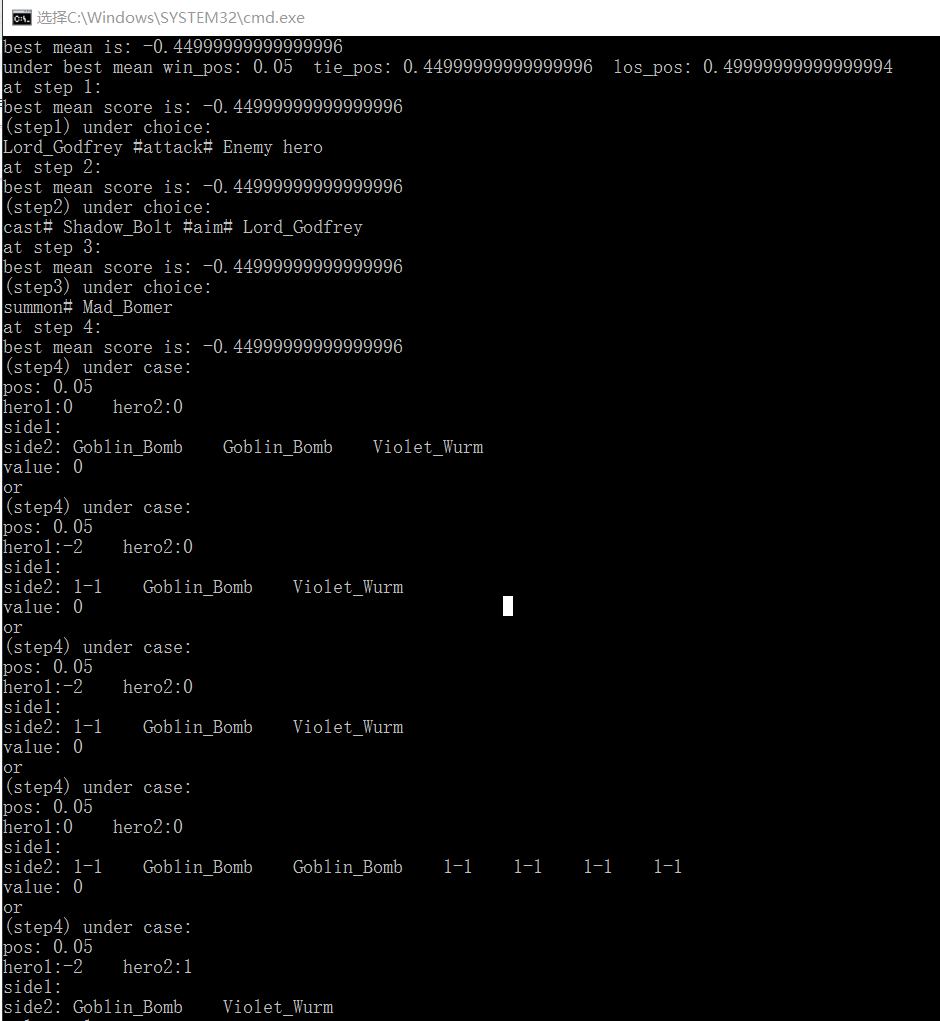
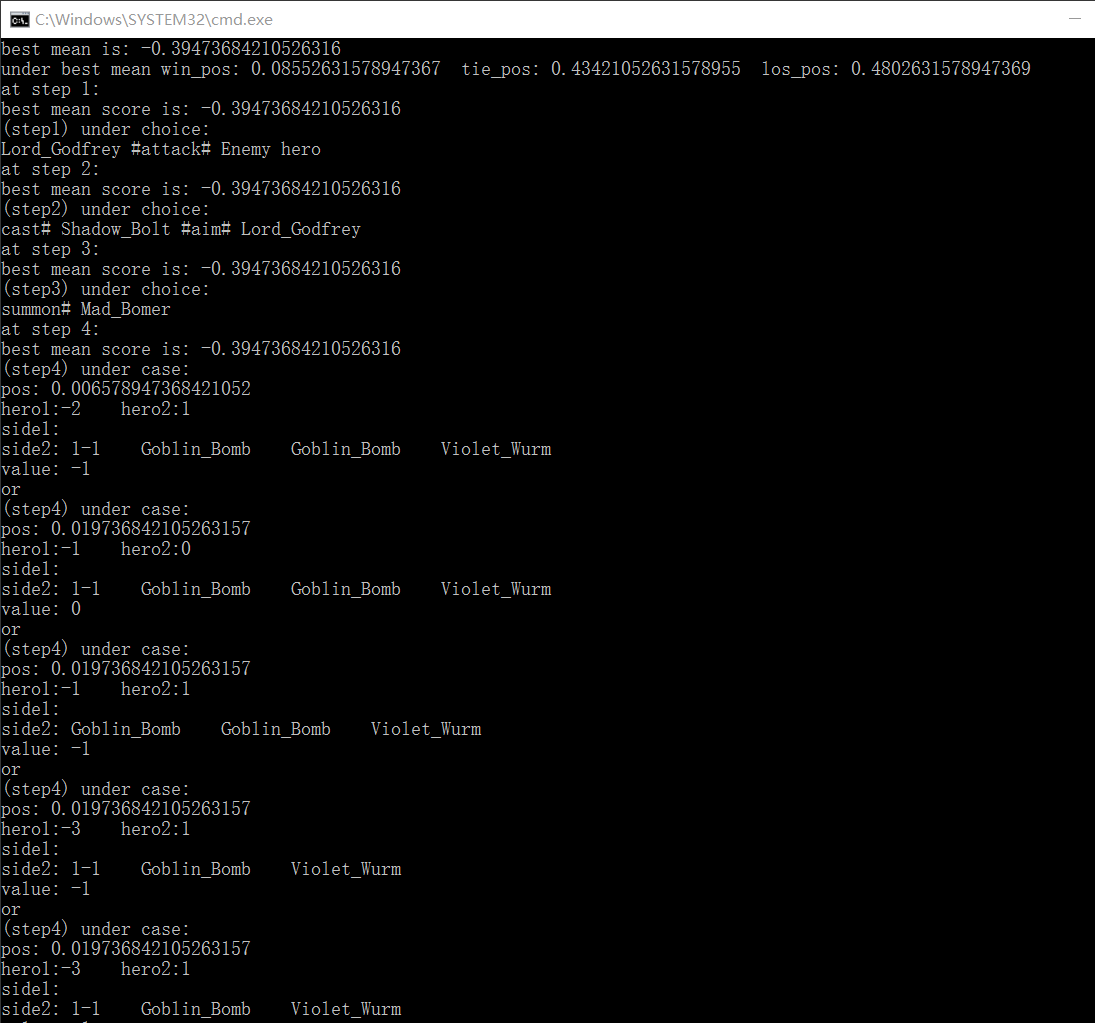
Add files via upload

diff --git a/best_way_calc.py b/best_way_calc.py
@@ -172,11 +172,11 @@ class Mad_Bomer(minion):
 		for i in targets:
 			i.health-=1
 			for j in targets:
-				if j.health<=0:
+				if j.health<=0 and j is not hero1 and j is not hero2:
 					continue
 				j.health-=1
 				for k in targets:
-					if k.health<=0:
+					if k.health<=0 and k is not hero1 and k is not hero2:
 						continue
 					count_all+=1
 					k.health-=1
